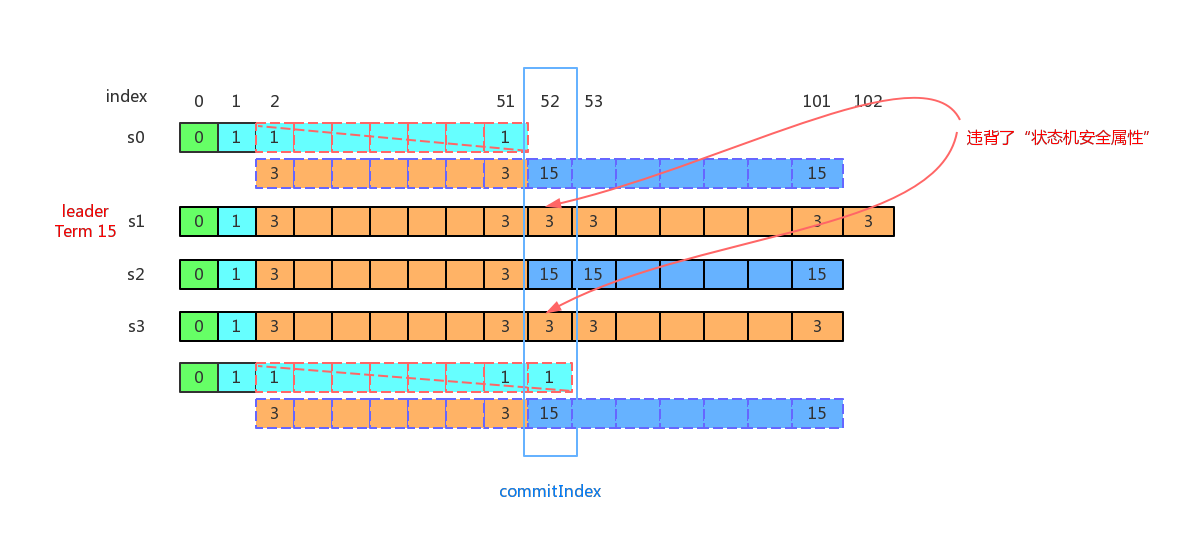
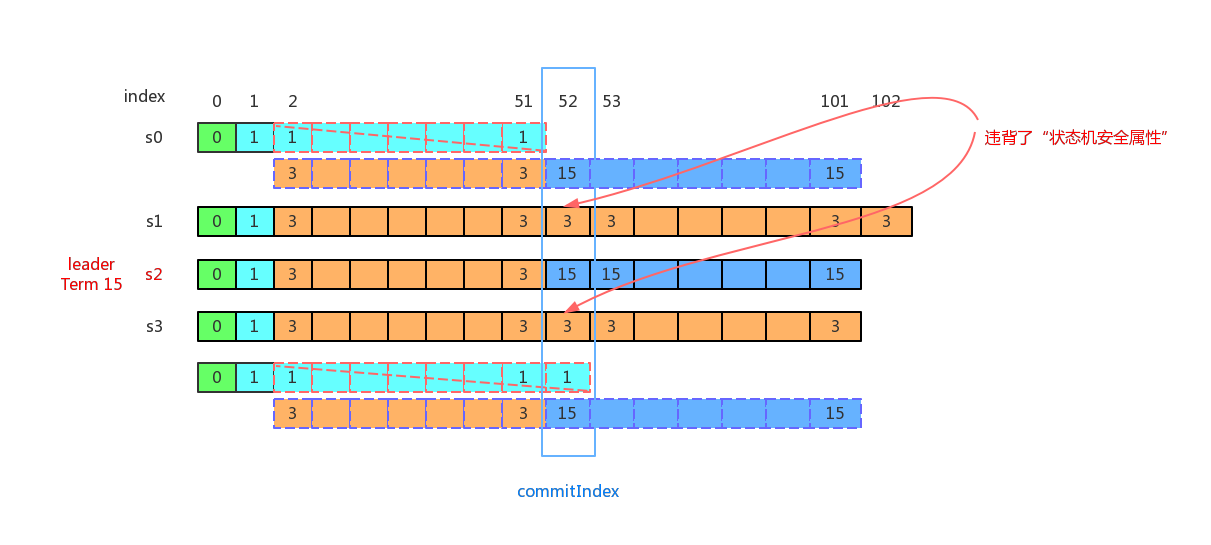
修复了figure中的leader错误，并增加了目录

diff --git a/lab/lab2: Raft/Part 2B/readme.md b/lab/lab2: Raft/Part 2B/readme.md
@@ -1,5 +1,18 @@
 # Part 2B: Log Replication  
 > 实现领导者和跟随者代码来追加新的日志条目。这将涉及到实现`Start()`，完成AppendEntries RPC结构，发送它们，充实(fleshing out)AppendEntry RPC处理程序(handler)，以及推进(advancing)领导者的`commitIndex`。    
+- [1. `Start()`实现](#1-start实现)      
+    - [1.1 并发处理](#11-并发处理)      
+    - [1.2 nextIndex的理解](#12-nextindex的理解)    
+    - [1.3 达到多数者条件时必须仍处于指定状态](#13-达到多数者条件时必须仍处于指定状态)      
+    - [1.4 当entry被提交后发送一次心跳以通知其他peers更新`commitIndex`](#14-当entry被提交后发送一次心跳以通知其他peers更新commitindex)      
+- [2. AppendEntries RPC请求处理](#2-appendentries-rpc请求处理)      
+    - [2.1 一致性检查通过后只有存在冲突才进行日志替换](#21-一致性检查通过后只有存在冲突才进行日志替换)      
+    - [2.2 减少被拒绝的AppendEntries RPC的次数](#22-减少被拒绝的appendentries-rpc的次数)    
+    - [2.3 一致性检查通过一定要设置为`Follower`状态](#23-一致性检查通过一定要设置为follower状态)    
+- [3. 心跳处理](#3-心跳处理)    
+    - [3.1 心跳也需要重试机制](#31-心跳也需要重试机制)      
+    - [3.2 心跳应该根据`nextIndex`的值判断是否需要携带entries信息](#32-心跳应该根据nextindex的值判断是否需要携带entries信息)    
+- [4. 新增的长期运行的(long-running)的应用日志条目goroutine](#4-新增的长期运行的long-running的应用日志条目goroutine)     
 
 ## 1. `Start()`实现     
 使用Raft的服务调用`Start()`想要就追加到Raft的log中下一条命令开始达成一致(start agreement)。如果该服务器不是leader，它返回false，否则开始达成一致并立即返回。不保证这条命令将被提交到(be committed to)Raft的log，由于leader可能故障或者输掉选举。即使Raft实例已经被杀掉，该函数也应该优雅地返回。    
@@ -420,7 +433,7 @@ func (rf *Raft) AppendEntries(args *AppendEntriesArgs, reply *AppendEntriesReply
 ### 3.1 心跳也需要重试机制      
 `Start()`中在发送AppendEntries RPC时，该RPC可能会因为一致性检查不通过而失败，此时需要递减`nextIndex`并重新发送RPC，直到一致性检查通过，然后进行进一步处理。因为发送心跳也会进行一致性检查，为了不因为初始时的日志不一致而使得心跳发送失败，而其他peers因为没有通过心跳而心跳超时(也就是选举超时，即`electionTimeout`)，进而发起不需要的(no-needed)选举，所以发送心跳也需要在一致性检查失败后进行重试。  
 ### 3.2 心跳应该根据`nextIndex`的值判断是否需要携带entries信息  
-概念上讲，心跳不携带entries，这指的是对某个peer而言，其`nextIndex`为其log的尾后位置时的这种一般情况。但是如果`nextIndex`小于log的尾后位置，这时心跳必须携带entries，这是因为正如[1.4 当entry被提交后发送一次心跳以通知其他peers更新`commitIndex`](#14-当entry被提交后发送一次心跳以通知其他peers更新commitIndex)所述，心跳的一个作用是通知其他peer更新`commitIndex`以应用新提交的entry，所以如果这次心跳通过了一致性检查，就可能会提升`commitIndex`，这时会给`applyCond`条件变量发信号以提交`[lastApplied, commitIndex]`之间的entries。如果此次心跳没有携带entries，则不会有不一致日志的截断和leader对应位置entries的追加，所以这时提交的可能是和leader不一致的过时的entries，这就出现了严重错误。所以这种情况下心跳要携带entries信息。而是否携带entries，完全取决于`nextIndex`的值。   
+概念上讲，心跳不携带entries，这指的是对某个peer而言，其`nextIndex`为其log的尾后位置时的这种一般情况。但是如果`nextIndex`小于log的尾后位置，这时心跳必须携带entries，这是因为正如[1.4 当entry被提交后发送一次心跳以通知其他peers更新`commitIndex`](#14-当entry被提交后发送一次心跳以通知其他peers更新commitIndex)所述，心跳的一个作用是通知其他peer更新`commitIndex`以应用新提交的entry，所以如果这次心跳通过了一致性检查，就可能会提升`commitIndex`，这时会给`applyCond`条件变量发信号以提交`[lastApplied+1, commitIndex]`之间的entries。如果此次心跳没有携带entries，则不会有不一致日志的截断和leader对应位置entries的追加，所以这时提交的可能是和leader不一致的过时的entries，这就出现了严重错误。所以这种情况下心跳要携带entries信息。而是否携带entries，完全取决于`nextIndex`的值。   
 在实验中，我为了保证心跳不携带entries不出现上述错误，在`Start()`调用中，当在处理AppendEntries RPC的回复时发现leader任期是过时的，除了更新leader的任期为回复中的更新的任期，切换为follower，重置`voteFor`为-1，以及重置选举超时定时器这些常规操作外，任期过时，也说明了要追加的entry是过时的，此时应该从log中删除这条entry，以免该过时的leader再次当选后，可能会复制该entry到其他peers。同时在发送心跳时，当一致性检查失败时，接下来的重试都携带entreis，以便如果这次重试的一致性检查通过，可以进行日志追加，以使得AppendEntries RPC请求处理程序提升`commitIndex`并应用新提交的entires到状态机的操作，不是应用之前不一致的entries，而是追加的leader的entries。但这还是无法避免一些情况下仍出错，比如Part 2B的测试函数`TestBackup2B()`的情况，如下图所示：    
 ![TestBackup2B()出错](figures/心跳根据nextIndex携带entries.png)     
 修改后的`broadcastHeartbeat`实现如下：  
@@ -481,7 +494,7 @@ func (rf *Raft) broadcastHeartbeat() {
                 // Todo:概念上将心跳不携带entries，这指的是当nextIndex为log的尾后位置时的一般情况。
                 // 但是如果nextIndex小于log的尾后位置，这是心跳必须携带entries，因为这次心跳可能就会
                 // 通过一致性检查，并可能提升commitIndex，这时会给applyCond条件变量发信号以提交
-                // [lastApplied, commitIndex]之间的entries。如果此次心跳没有携带entries，则不会有
+                // [lastApplied+1, commitIndex]之间的entries。如果此次心跳没有携带entries，则不会有
                 // 日志追加，所以提交的可能是和leader不一致的过时的entries，这就出现了严重错误。所以
                 // 这种情况下心跳要携带entries。
                 entries := rf.log[prevLogIndex+1:]
@@ -588,12 +601,12 @@ func (rf *Raft) broadcastHeartbeat() {
 }
 ```
 
-## 4. 新增的长期运行的(long-runing)的应用日志条目goroutine  
+## 4. 新增的长期运行的(long-running)的应用日志条目goroutine  
 一旦更新了`commitIndex`，需要一种机制将新提交的entry封装为`ApplyMsg`消息并发送到传递给`Make()`函数的参数`applyCh`channel中。    
 正如[Raft Structrue Advice](https://pdos.csail.mit.edu/6.824/labs/raft-structure.txt)关于应用提交的日志条目的建议：     
 > 你会想有一个单独的(separate)长期运行的goroutine来按顺序(in order)发送已提交的(committed)日志条目到`applyCh`。它必须是单独的(separate)，因为在`applyCh`上发送消息可能阻塞(block)；并且它也必须是单个的goroutine，因为否则可能很难确保你可以按照日志顺序(in log order)发送日志条目。提升(advances)`commitIndex`的代码需要踢(kick)该应用goroutine(the apply goroutine)；使用条件变量(condition variable)(Go's sync.Cond)做这个可能是最简单的。   
     
-参照之前[选举超时(心跳超时)检测electionTimeoutTick的实现](../Part%202A/readme.md#12-时间驱动的time-driven长期运行的long-running的goroutine)，我们自然想到可以将该通知机制作为另一个长期运行的goroutine，它循环检测`commitIndex`是否大于`lastApplied`，如果满足，则逐个将`[lastApplied+1, commitIndex]`之间的entry封装为`ApplyMsg`发送到`applyCh`，如果不满足，则休眠等待条件变量`applyCond`而每当leader或其他follower的`commitIndex`更新后，就给`applyCond`发信号。     
+参照之前[选举超时(心跳超时)检测electionTimeoutTick的实现](../Part%202A/readme.md#12-时间驱动的time-driven长期运行的long-running的goroutine)，我们自然想到可以将该通知机制作为另一个长期运行的goroutine，它循环检测`commitIndex`是否大于`lastApplied`，如果满足，则逐个将`[lastApplied+1, commitIndex]`之间的entry封装为`ApplyMsg`发送到`applyCh`，如果不满足，则休眠等待条件变量`applyCond`。而每当leader或其他follower的`commitIndex`更新后，就给`applyCond`发信号。     
 `applyEntries`goroutine的代码实现如下：     
 ```go
 // 按顺序(in order)发送已提交的(committed)日志条目到applyCh的goroutine。
